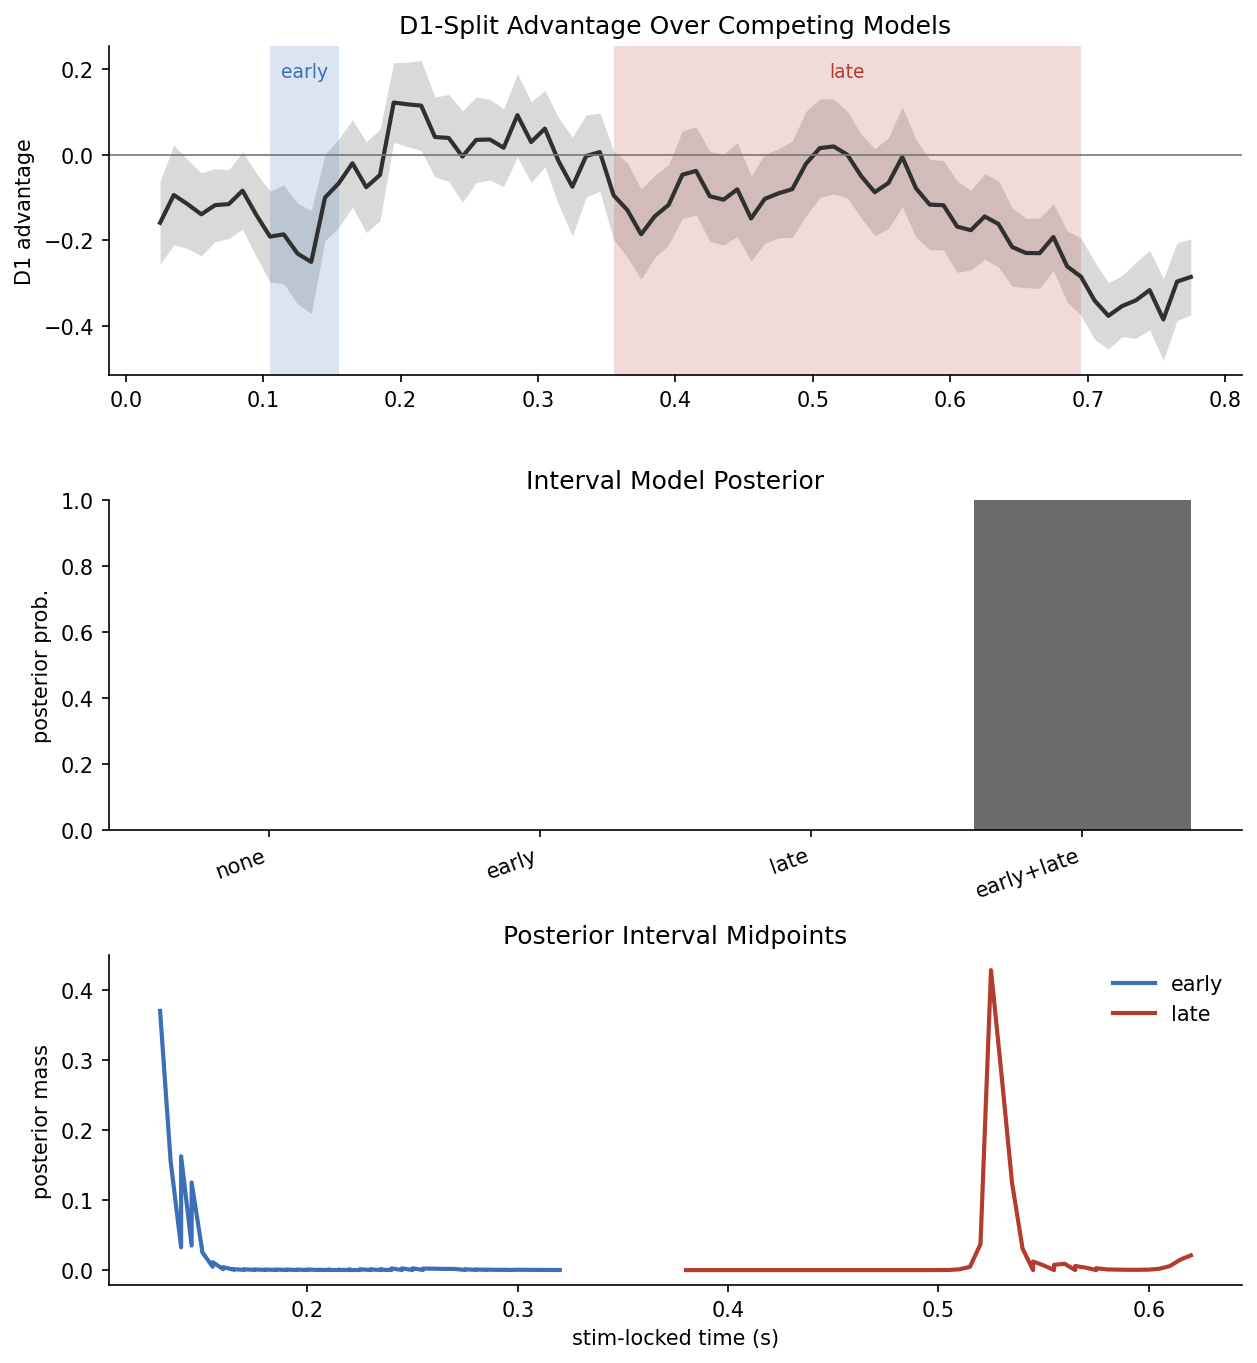
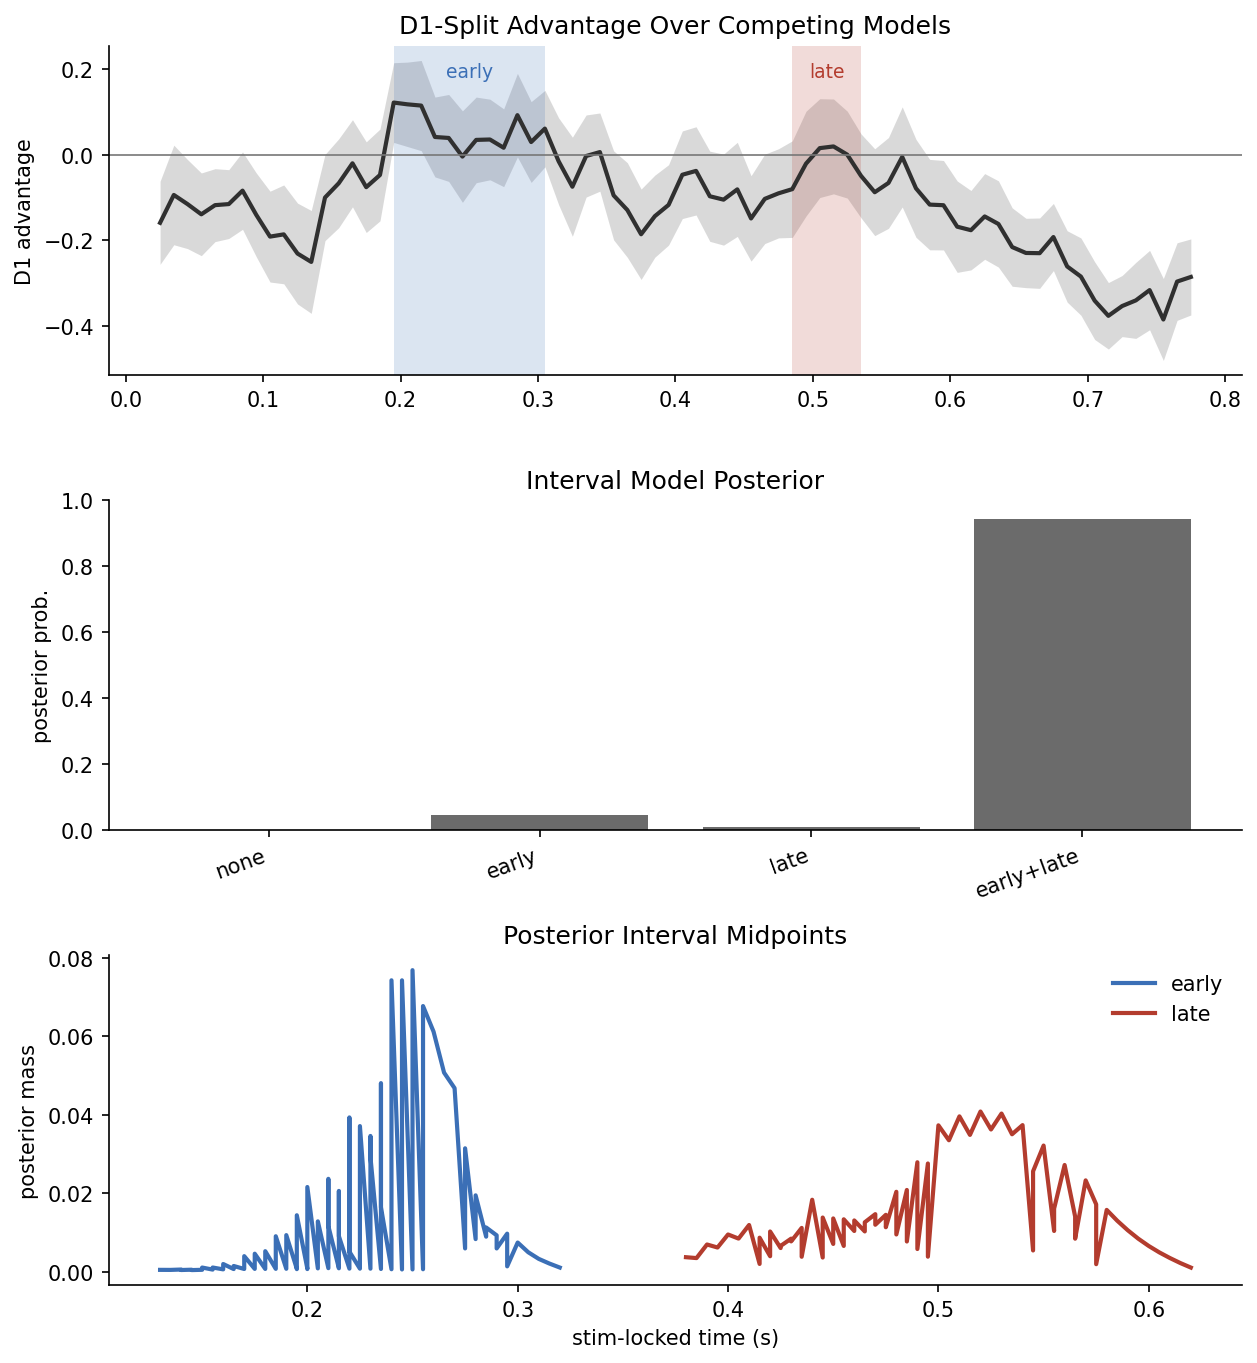
refine

diff --git a/code/connect_sensorwide_d1_split_bayes_interval_analysis.py b/code/connect_sensorwide_d1_split_bayes_interval_analysis.py
@@ -195,6 +195,7 @@ def one_interval_results(y, times, sigma, intervals, model_name):
         log_ev, mean, cov = log_marginal_likelihood(y, x, sigma, TAU_EFFECT)
         sd = float(math.sqrt(cov[0, 0]))
         p_pos = normal_cdf(float(mean[0]) / sd)
+        positive_log_ev = log_ev + math.log(max(p_pos, 1e-300)) - math.log(0.5)
         rows.append(
             {
                 "model": model_name,
@@ -202,7 +203,8 @@ def one_interval_results(y, times, sigma, intervals, model_name):
                 "ub_early": interval["ub"] if model_name == "early" else np.nan,
                 "lb_late": interval["lb"] if model_name == "late" else np.nan,
                 "ub_late": interval["ub"] if model_name == "late" else np.nan,
-                "log_evidence": log_ev,
+                "log_evidence": positive_log_ev,
+                "unconstrained_log_evidence": log_ev,
                 "effect_early_mean": float(mean[0])
                 if model_name == "early"
                 else np.nan,
@@ -228,6 +230,12 @@ def two_interval_results(y, times, sigma, early_intervals, late_intervals):
             log_ev, mean, cov = log_marginal_likelihood(y, X, sigma, TAU_EFFECT)
             sd_early = float(math.sqrt(cov[0, 0]))
             sd_late = float(math.sqrt(cov[1, 1]))
+            p_early = normal_cdf(float(mean[0]) / sd_early)
+            p_late = normal_cdf(float(mean[1]) / sd_late)
+            positive_log_ev = log_ev
+            positive_log_ev += math.log(max(p_early, 1e-300))
+            positive_log_ev += math.log(max(p_late, 1e-300))
+            positive_log_ev -= 2.0 * math.log(0.5)
             rows.append(
                 {
                     "model": "early_late",
@@ -235,13 +243,14 @@ def two_interval_results(y, times, sigma, early_intervals, late_intervals):
                     "ub_early": early["ub"],
                     "lb_late": late["lb"],
                     "ub_late": late["ub"],
-                    "log_evidence": log_ev,
+                    "log_evidence": positive_log_ev,
+                    "unconstrained_log_evidence": log_ev,
                     "effect_early_mean": float(mean[0]),
                     "effect_early_sd": sd_early,
-                    "effect_early_p_gt0": normal_cdf(float(mean[0]) / sd_early),
+                    "effect_early_p_gt0": p_early,
                     "effect_late_mean": float(mean[1]),
                     "effect_late_sd": sd_late,
-                    "effect_late_p_gt0": normal_cdf(float(mean[1]) / sd_late),
+                    "effect_late_p_gt0": p_late,
                 }
             )
     return rows
